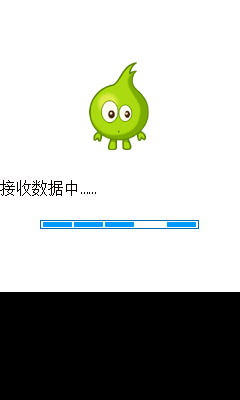
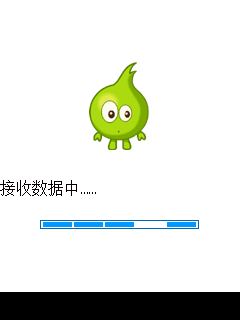
Account for softkey strips in startup display discovery

diff --git a/crates/nicaiemu-core/src/machine/display.rs b/crates/nicaiemu-core/src/machine/display.rs
@@ -88,7 +88,7 @@ impl NicaiMachine {
 
     /// Accumulate startup drawing extents; a later larger backdrop cancels a
     /// small splash image. Ignore glyph cells and vertical sprite strips; leave
-    /// up to one text row for an unused softkey band.
+    /// up to one softkey strip, including its padding.
     pub(super) fn observe_display_drawing(&mut self, x: i32, y: i32, width: i32, height: i32) {
         if self.frame_count >= 4
             || self.framebuffer_size() != (FRAME_WIDTH, FRAME_HEIGHT)
@@ -110,7 +110,7 @@ impl NicaiMachine {
         let Some((width, bottom)) = self.display_surface.drawing_bounds else {
             return;
         };
-        for height in bottom..=bottom.saturating_add(16) {
+        for height in bottom..=bottom.saturating_add(32) {
             if DisplaySurface::supports(width as u32, height as u32) {
                 self.observe_display_fill(0, 0, width, height);
                 break;
@@ -194,6 +194,24 @@ impl NicaiMachine {
 mod tests {
     use super::super::SCREEN_IMAGE_STRUCT;
     use super::*;
+
+    #[test]
+    fn startup_backdrop_leaves_room_for_a_softkey_strip() {
+        let mut machine = NicaiMachine::new_blank_for_tests();
+        machine.initialize_screen();
+        machine.observe_display_drawing(0, 0, 240, 294);
+        machine.frame_count = 3;
+        machine.finish_display_discovery();
+        assert_eq!(machine.framebuffer_size(), (240, 320));
+
+        let mut larger = NicaiMachine::new_blank_for_tests();
+        larger.initialize_screen();
+        larger.observe_display_drawing(0, 0, 240, 294);
+        larger.observe_display_drawing(0, 0, 240, 400);
+        larger.frame_count = 3;
+        larger.finish_display_discovery();
+        assert_eq!(larger.framebuffer_size(), (240, 400));
+    }
 
     #[test]
     fn startup_backdrops_resolve_geometry_without_cropping_a_later_splash() {

diff --git a/docs/Game-Compatibility.md b/docs/Game-Compatibility.md
@@ -96,7 +96,7 @@ not provide the original server's content or a real carrier payment service.
 | 38 | `A/封神演义(新品).CBE` | 240×320 | <img src="images/A/封神演义(新品).png" width="120" alt="封神演义(新品) idle frame"> | Not assessed | Ready | Idle frame captured; interaction/gameplay unverified |
 | 39 | `A/封神演义V10.CBE` | 240×320 | <img src="images/A/封神演义V10.png" width="120" alt="封神演义V10 idle frame"> | Not assessed | Ready | Idle frame captured; interaction/gameplay unverified |
 | 40 | `A/封神演义V101.CBE` | 240×320 | <img src="images/A/封神演义V101.png" width="120" alt="封神演义V101 idle frame"> | Not assessed | Ready | Idle frame captured; interaction/gameplay unverified |
-| 41 | `A/小酷V10.CBE` | 240×400 | <img src="images/A/小酷V10.png" width="120" alt="小酷V10 idle frame"> | Not assessed | Ready | Idle frame captured; interaction/gameplay unverified |
+| 41 | `A/小酷V10.CBE` | 240×320 | <img src="images/A/小酷V10.png" width="120" alt="小酷V10 idle frame"> | Not assessed | Ready | Idle frame captured; interaction/gameplay unverified |
 | 42 | `A/小酷V101.CBE` | 240×320 | <img src="images/A/小酷V101.png" width="120" alt="小酷V101 idle frame"> | Not assessed | Ready | Idle frame captured; interaction/gameplay unverified |
 | 43 | `A/小酷书城(免费看书)V101.CBE` | 240×320 | <img src="images/A/小酷书城(免费看书)V101.png" width="120" alt="小酷书城(免费看书)V101 idle frame"> | Not assessed | Ready | Idle frame captured; interaction/gameplay unverified |
 | 44 | `A/小酷农场(火爆上线)V10.CBE` | 240×320 | <img src="images/A/小酷农场(火爆上线)V10.png" width="120" alt="小酷农场(火爆上线)V10 idle frame"> | Not assessed | Ready | Idle frame captured; interaction/gameplay unverified |
@@ -120,11 +120,11 @@ not provide the original server's content or a real carrier payment service.
 | 62 | `A/极限挑战V101.CBE` | 240×320 | <img src="images/A/极限挑战V101.png" width="120" alt="极限挑战V101 idle frame"> | Not assessed | Ready | Idle frame captured; interaction/gameplay unverified |
 | 63 | `A/毒蛇行动V101.CBE` | 240×320 | <img src="images/A/毒蛇行动V101.png" width="120" alt="毒蛇行动V101 idle frame"> | Not assessed | Ready | Idle frame captured; interaction/gameplay unverified |
 | 64 | `A/江湖Online(大型网游)V10.CBE` | 240×320 | <img src="images/A/江湖Online(大型网游)V10.png" width="120" alt="江湖Online(大型网游)V10 idle frame"> | Not assessed | Ready | Idle frame captured; interaction/gameplay unverified |
-| 65 | `A/法老祖玛(新品).CBE` | 240×400 | <img src="images/A/法老祖玛(新品).png" width="120" alt="法老祖玛(新品) idle frame"> | Not assessed | Ready | Title/menu rendering and basic selection checked for 2,000 frames; complete gameplay unverified |
-| 66 | `A/法老祖玛V10.CBE` | 240×400 | <img src="images/A/法老祖玛V10.png" width="120" alt="法老祖玛V10 idle frame"> | Not assessed | Ready | Idle frame captured; interaction/gameplay unverified |
+| 65 | `A/法老祖玛(新品).CBE` | 240×320 | <img src="images/A/法老祖玛(新品).png" width="120" alt="法老祖玛(新品) idle frame"> | Not assessed | Ready | Title/menu rendering and basic selection checked for 2,000 frames; complete gameplay unverified |
+| 66 | `A/法老祖玛V10.CBE` | 240×320 | <img src="images/A/法老祖玛V10.png" width="120" alt="法老祖玛V10 idle frame"> | Not assessed | Ready | Idle frame captured; interaction/gameplay unverified |
 | 67 | `A/漂亮小护士(新品).CBE` | 240×320 | <img src="images/A/漂亮小护士(新品).png" width="120" alt="漂亮小护士(新品) idle frame"> | Not assessed | Ready | Title/menu restored; selected continuation still fails during loading |
 | 68 | `A/漂亮小护士V10.CBE` | 240×320 | <img src="images/A/漂亮小护士V10.png" width="120" alt="漂亮小护士V10 idle frame"> | Not assessed | Ready | Idle frame captured; interaction/gameplay unverified |
-| 69 | `A/漫画大王(新品).CBE` | 240×400 | <img src="images/A/漫画大王(新品).png" width="120" alt="漫画大王(新品) idle frame"> | Not assessed | Ready | Title text renders; comic content and basic functionality unverified |
+| 69 | `A/漫画大王(新品).CBE` | 240×320 | <img src="images/A/漫画大王(新品).png" width="120" alt="漫画大王(新品) idle frame"> | Not assessed | Ready | Title text renders; comic content and basic functionality unverified |
 | 70 | `A/炸弹人(新品).CBE` | 240×320 | <img src="images/A/炸弹人(新品).png" width="120" alt="炸弹人(新品) idle frame"> | Not assessed | Ready | Title/menu rendering and basic selection checked for 2,000 frames; complete gameplay unverified |
 | 71 | `A/热辣美图(新品).CBE` | 240×320 | <img src="images/A/热辣美图(新品).png" width="120" alt="热辣美图(新品) idle frame"> | Not assessed | Ready | Title, complete usage prompt and picture-browser navigation verified for 2,000 frames; remote downloads unverified |
 | 72 | `A/爱之征途V101.CBE` | 240×320 | <img src="images/A/爱之征途V101.png" width="120" alt="爱之征途V101 idle frame"> | Not assessed | Ready | Idle frame captured; interaction/gameplay unverified |
@@ -157,7 +157,7 @@ not provide the original server's content or a real carrier payment service.
 | 99 | `A/超级泡泡龙V10.CBE` | 240×320 | <img src="images/A/超级泡泡龙V10.png" width="120" alt="超级泡泡龙V10 idle frame"> | Not assessed | Ready | Idle frame captured; interaction/gameplay unverified |
 | 100 | `A/超级玛丽(新品).CBE` | 240×320 | <img src="images/A/超级玛丽(新品).png" width="120" alt="超级玛丽(新品) idle frame"> | Not assessed | Ready | Idle frame captured; interaction/gameplay unverified |
 | 101 | `A/超级玛丽V10.CBE` | 240×320 | <img src="images/A/超级玛丽V10.png" width="120" alt="超级玛丽V10 idle frame"> | Not assessed | Ready | Title renders; 300-frame confirm replay completes; gameplay completeness unverified |
-| 102 | `A/超级麻将(新品).CBE` | 240×400 | <img src="images/A/超级麻将(新品).png" width="120" alt="超级麻将(新品) idle frame"> | Not assessed | Ready | Title/menu rendering and basic selection checked for 2,000 frames; complete gameplay unverified |
+| 102 | `A/超级麻将(新品).CBE` | 240×320 | <img src="images/A/超级麻将(新品).png" width="120" alt="超级麻将(新品) idle frame"> | Not assessed | Ready | Title/menu rendering and basic selection checked for 2,000 frames; complete gameplay unverified |
 | 103 | `A/超级麻将V10.CBE` | 240×320 | <img src="images/A/超级麻将V10.png" width="120" alt="超级麻将V10 idle frame"> | Not assessed | Ready | Title/menu and room selection verified for 2,000 frames; full rounds and online rooms unverified |
 | 104 | `A/酷宝充值(短信直充)V101.CBE` | 240×320 | <img src="images/A/酷宝充值(短信直充)V101.png" width="120" alt="酷宝充值(短信直充)V101 idle frame"> | Not assessed | Ready | Idle frame captured; interaction/gameplay unverified |
 | 105 | `A/金刚大战V10.CBE` | 240×320 | <img src="images/A/金刚大战V10.png" width="120" alt="金刚大战V10 idle frame"> | Not assessed | Ready | Idle frame captured; interaction/gameplay unverified |
@@ -170,7 +170,7 @@ not provide the original server's content or a real carrier payment service.
 | 112 | `A/马戏团V10.CBE` | 240×320 | <img src="images/A/马戏团V10.png" width="120" alt="马戏团V10 idle frame"> | Not assessed | Ready | Idle frame captured; interaction/gameplay unverified |
 | 113 | `A/马戏团V101.CBE` | 240×320 | <img src="images/A/马戏团V101.png" width="120" alt="马戏团V101 idle frame"> | Not assessed | Ready | Idle frame captured; interaction/gameplay unverified |
 | 114 | `A/魔兽塔防(新品).CBE` | 240×320 | <img src="images/A/魔兽塔防(新品).png" width="120" alt="魔兽塔防(新品) idle frame"> | Not assessed | Ready | Idle frame captured; interaction/gameplay unverified |
-| 115 | `A/魔兽塔防V10.CBE` | 240×400 | <img src="images/A/魔兽塔防V10.png" width="120" alt="魔兽塔防V10 idle frame"> | Not assessed | Ready | Idle frame captured; interaction/gameplay unverified |
+| 115 | `A/魔兽塔防V10.CBE` | 240×320 | <img src="images/A/魔兽塔防V10.png" width="120" alt="魔兽塔防V10 idle frame"> | Not assessed | Ready | Title/menu, help and return verified for 2,000 frames; entering gameplay still shows a blank map |
 | 116 | `A/魔力弹球(新品).CBE` | 240×320 | <img src="images/A/魔力弹球(新品).png" width="120" alt="魔力弹球(新品) idle frame"> | Not assessed | Ready | Title/menu rendering and basic selection checked for 2,000 frames; complete gameplay unverified |
 | 117 | `A/魔塔(新品).CBE` | 240×320 | <img src="images/A/魔塔(新品).png" width="120" alt="魔塔(新品) idle frame"> | Not assessed | Ready | Idle frame captured; interaction/gameplay unverified |
 | 118 | `A/魔塔V10.CBE` | 240×320 | <img src="images/A/魔塔V10.png" width="120" alt="魔塔V10 idle frame"> | Not assessed | Ready | Idle frame captured; interaction/gameplay unverified |
@@ -282,7 +282,7 @@ not provide the original server's content or a real carrier payment service.
 | 17 | `C/happySheep.CBE` | 176×220 | <img src="images/C/happySheep.png" width="120" alt="happySheep idle frame"> | Not assessed | Ready | Native 176×220 LCD; startup margins resolved; gameplay unverified |
 | 18 | `C/HellRaider.CBE` | 176×220 | <img src="images/C/HellRaider.png" width="120" alt="HellRaider idle frame"> | Not assessed | Ready | Native 176×220 LCD; startup margins resolved; gameplay unverified |
 | 19 | `C/HitLand.CBE` | 176×220 | <img src="images/C/HitLand.png" width="120" alt="HitLand idle frame"> | Not assessed | Ready | Native 176×220 LCD; startup margins resolved; gameplay unverified |
-| 20 | `C/Im.CBE` | 240×400 | <img src="images/C/Im.png" width="120" alt="Im idle frame"> | Required for online login | Ready | Login screen and field-focus navigation checked for 2,000 frames; online authentication unavailable |
+| 20 | `C/Im.CBE` | 176×220 | <img src="images/C/Im.png" width="120" alt="Im idle frame"> | Required for online login | Ready | Login screen and field-focus navigation checked for 2,000 frames; online authentication unavailable |
 | 21 | `C/kriegspiel.CBE` | 176×220 | <img src="images/C/kriegspiel.png" width="120" alt="kriegspiel idle frame"> | Not assessed | Ready | Native 176×220 LCD; startup margins resolved; gameplay unverified |
 | 22 | `C/MaJiang.CBE` | 176×220 | <img src="images/C/MaJiang.png" width="120" alt="MaJiang idle frame"> | Not assessed | Ready | Idle frame captured; interaction/gameplay unverified |
 | 23 | `C/Map.CBE` | 176×220 | <img src="images/C/Map.png" width="120" alt="Map idle frame"> | Not assessed | Ready | Map grid, center marker and bottom menu render; online map data unverified |

diff --git a/docs/architecture.md b/docs/architecture.md
@@ -316,3 +316,7 @@ native load callback's state argument. Fixed window regions occupy 0x40 bytes;
 constructors initialize only their six method slots and preserve adjacent owner
 fields such as image IDs and picture-library references. Their contexts continue
 to use the existing version-3 snapshot layout.
+
+Startup backdrop extents may leave up to 32 pixels for a softkey strip and its
+padding when resolving a supported LCD mode. Larger startup drawing still cancels
+a smaller candidate; presentation orientation remains independent.
